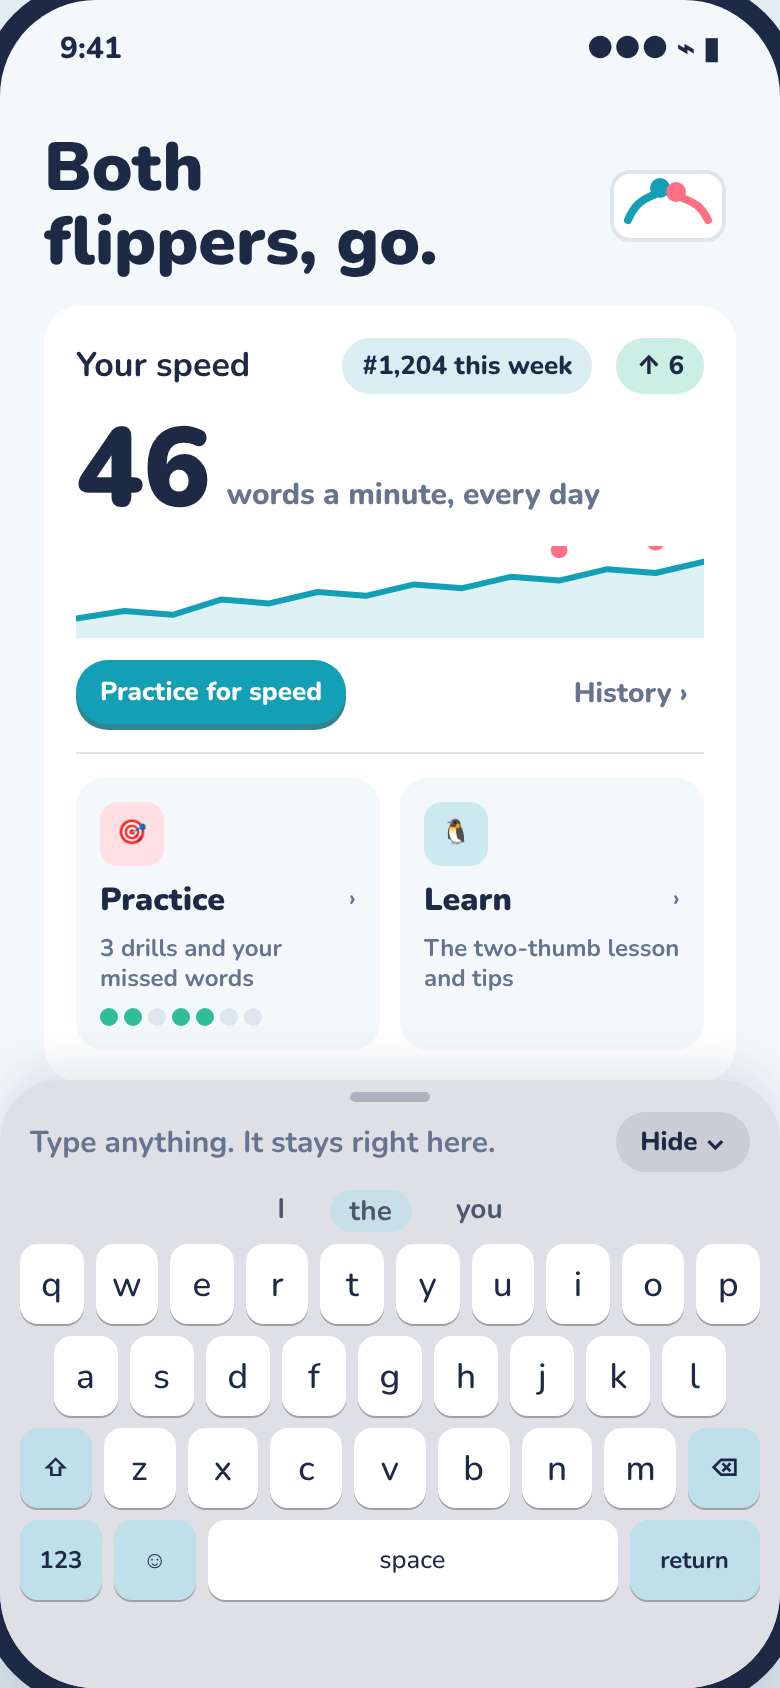
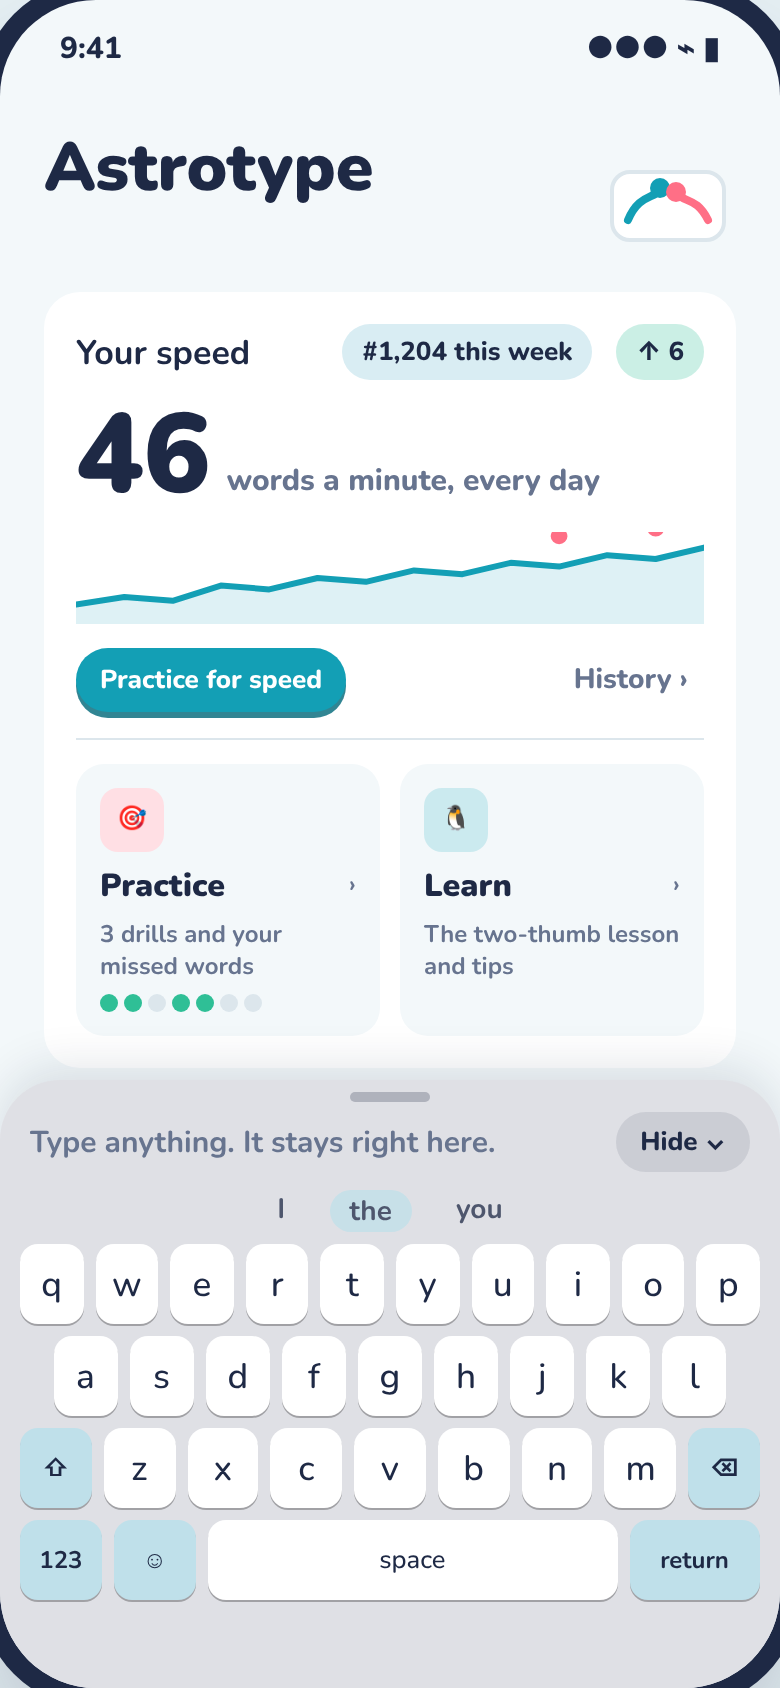
Astrotype: Home header says Astrotype; home and welcome plan approved
Claude-Session: https://claude.ai/code/session_01GG78N8xC4DUcsZruzJ5kAA

Changed region(s): [[0.0615, 0.0616, 0.9231, 0.6161], [0.5231, 0.4621, 0.8615, 0.5853], [0.8, 0.1848, 0.8923, 0.2464]]

diff --git a/apps/astrotype/features/home-and-welcome/design/mockups/home-and-welcome.html b/apps/astrotype/features/home-and-welcome/design/mockups/home-and-welcome.html
@@ -528,7 +528,7 @@ function homeScreen(){
   const left=wide()?`${speedCard()}${bottomRows()}`:`${speedCard()}${sec("Your keyboard")}${keyboardCard()}${bottomRows()}`;
   const right=wide()?`${sec("Your keyboard")}${keyboardCard()}`:"";
   return `<div class="scroll ${S.dockOpen?"docked":""}">
-    <div class="hdr"><div class="h1">${wide()?"Both flippers, go.":"Both<br>flippers, go."}</div>${thumbsSVG()}</div>
+    <div class="hdr"><div class="h1">Astrotype</div>${thumbsSVG()}</div>
     <div class="cols"><div class="col">${left}</div><div class="col">${right}</div></div>
   </div>${dock()}`;
 }

diff --git a/apps/astrotype/features/home-and-welcome/FEATURE.md b/apps/astrotype/features/home-and-welcome/FEATURE.md
@@ -11,7 +11,7 @@ be it simple and approachable."
 
 ## Product
 
-Status: Draft
+Status: Approved 2026-11-09 (Gabriel: "go ahead and build it")
 
 - **The problem:**
   - The fun part of Astrotype, how the keyboard looks and feels, is three taps deep
@@ -72,22 +72,20 @@ Status: Draft
 
 ### Open questions
 
-1. **Order on Home:** Your speed first, then Your keyboard (my pick, speed is the main
-   game), or Your keyboard first?
-2. **Height on Home:** keep it on the card, or only themes and effects?
-3. **Full Access after Try it** (my pick, it reads better once it has learned words), or
-   keep it before as today?
+None. Gabriel liked the mockup as shown (9 Nov 2026), so: Your speed first, then Your
+keyboard; Height stays on the card; Full Access comes after Try it. The Home header is
+just "Astrotype" (Gabriel, 9 Nov 2026), not the "Both flippers, go." tagline.
 
 - **Leaderboards** (PR #203, built in another thread): its rank chip sits in Your
   speed's card, which this redesign keeps as is, so the two fit together.
 
 ## Design
 
-Status: Draft
+Status: Approved 2026-11-09 (Gabriel: "go ahead and build it")
 
 - **Mockups:** `design/mockups/home-and-welcome.html` (Artifact: https://claude.ai/artifact/CYaxjuqLHErz1c2uJtQgsm) (tap through it; every button in the phone works)
 - **What changes:**
-  - **Home** (`screens/01-before-home.png` → `02-home.png`): header and Your speed stay.
+  - **Home** (`screens/01-before-home.png` → `02-home.png`): the header becomes just "Astrotype"; Your speed stays.
     New Your keyboard card. Drills, Practice words and the week move to the new Learn and
     practice screen, linked from the bottom of Your speed. The old "Settings · Autospace, gestures, trails, sync" row becomes a plain
     Settings row at the bottom, next to Pro.
